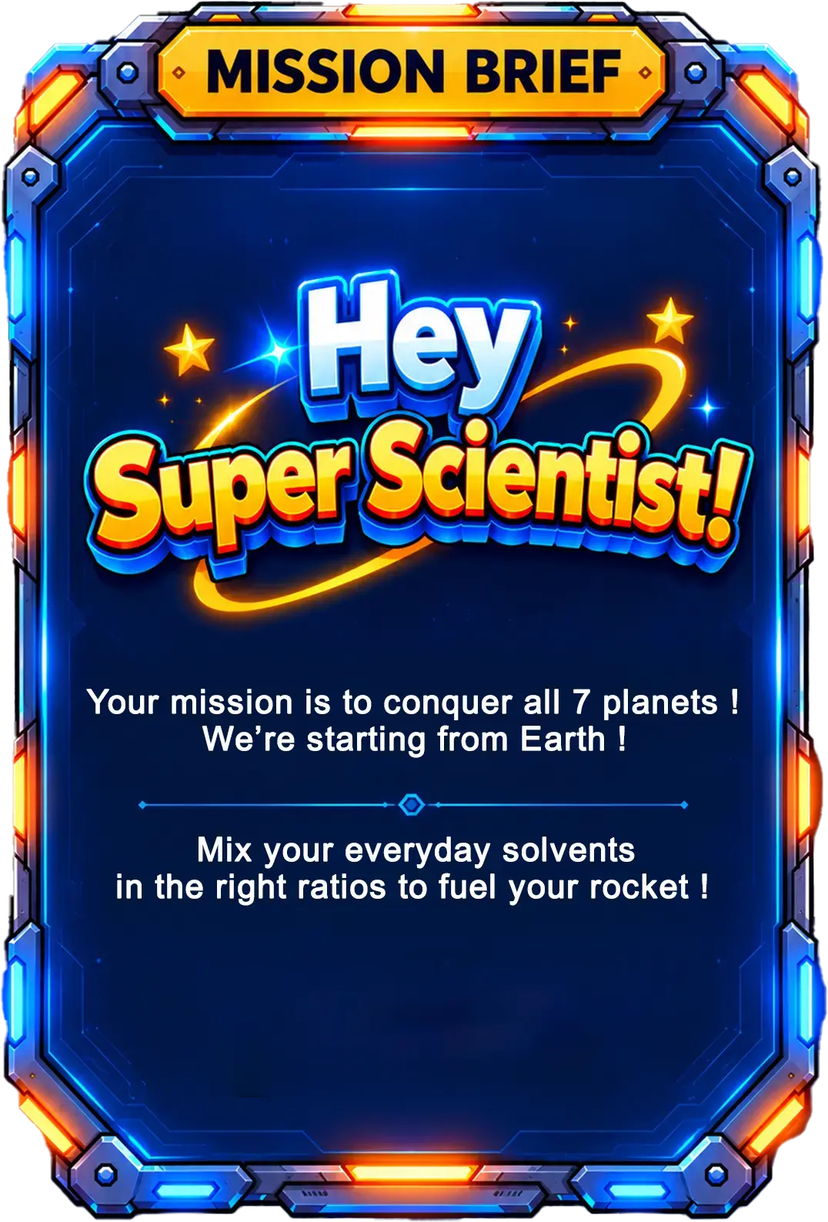
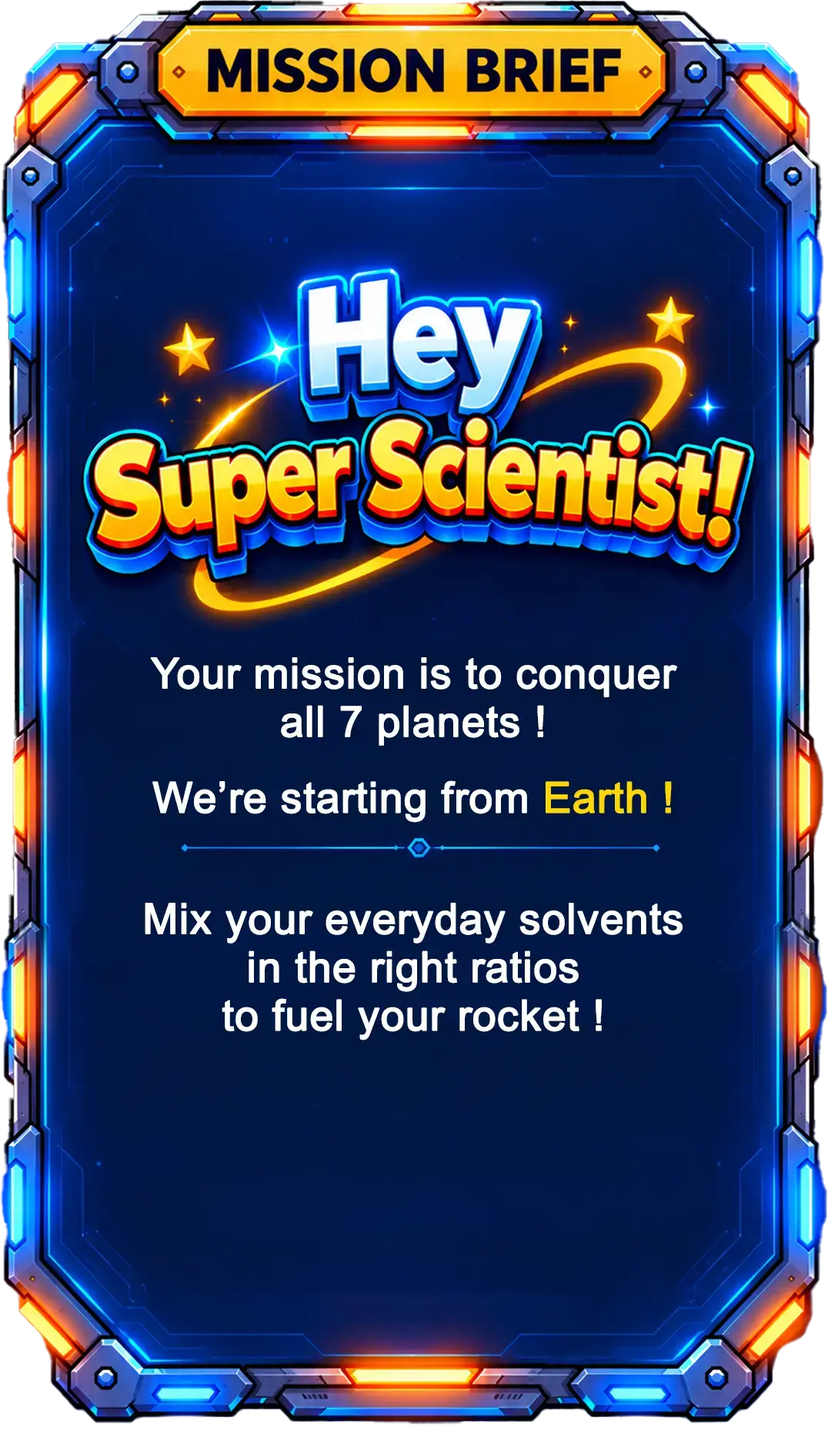
Add responsive three-slide demo and refine mission brief layout

diff --git a/assets/rocket-game-scripts/rocket-game.css b/assets/rocket-game-scripts/rocket-game.css
@@ -553,3 +553,78 @@ img{-webkit-user-drag:none}
 .selecting:not(.boarding) .pick-rocket-art img:nth-child(2){animation:pick-rocket-alternate .4s steps(1,end) infinite}
 @keyframes pick-rocket-point{0%,100%{transform:translateY(-6px) scale(1)}50%{transform:translateY(10px) scale(1.035)}}
 @keyframes pick-rocket-alternate{0%,100%{opacity:0}50%{opacity:1}}
+
+/* Optional full-screen demonstration before mission selection. */
+#brief .demo-button{position:absolute;top:98%;left:25%;width:50%;padding:9px 16px;font-size:clamp(14px,4cqw,22px);animation:breathe 2.5s ease-in-out infinite}
+#demo-popup{position:fixed;inset:0;width:100vw;height:100vh;height:100dvh;max-width:none;max-height:none;margin:0;padding:0;border:0;border-radius:0;background:#020b1c;overflow:hidden;animation:demo-reveal .45s cubic-bezier(.16,1,.3,1) both}
+#demo-popup[open]{display:block}
+#demo-popup::backdrop{background:#000d}
+.demo-media{position:absolute;inset:0;display:grid;place-items:center}
+#demo-gif{width:100%;height:100%;object-fit:contain}
+#demo-placeholder{color:#acf2ff;font-size:clamp(20px,5vw,32px);text-align:center;animation:breathe 2.5s ease-in-out infinite}
+#demo-start-mission{position:absolute;left:50%;bottom:max(24px,env(safe-area-inset-bottom));transform:translateX(-50%);width:min(80%,360px);z-index:2}
+#demo-start-mission:hover{transform:translateX(-50%) translateY(-2px)}
+#demo-start-mission:active{transform:translateX(-50%) scale(.96)}
+.demo-close{position:absolute;right:max(14px,env(safe-area-inset-right));top:max(14px,env(safe-area-inset-top));width:44px;height:44px;border:1px solid #83eaff;border-radius:50%;background:#04152bda;color:white;font-size:28px;z-index:3}
+@keyframes demo-reveal{from{opacity:0;transform:translateY(20px) scale(.97)}to{opacity:1;transform:none}}
+
+/* Fit the new taller mission brief to the visible device height. */
+#brief{height:100vh;height:100svh;min-height:0}
+#brief .brief-frame{top:22px;left:0;right:0;margin-inline:auto;width:min(90%,calc((100vh - 56px)*.569915));width:min(90%,calc((100svh - 56px)*.569915))}
+#brief .wide{top:76%;left:16.667%;width:66.666%}
+#brief .demo-button{top:86%;left:23%;width:54%;height:6.5%;min-height:0;padding:0;font-size:clamp(10px,3cqw,18px);display:flex;align-items:center;justify-content:center}
+@media(min-width:600px){#brief{height:calc(100vh - 40px);height:calc(100svh - 40px)}#brief .brief-frame{width:min(90%,calc((100vh - 96px)*.569915));width:min(90%,calc((100svh - 96px)*.569915))}}
+
+/* Supplied red Demo artwork, fitted without stretching. */
+#brief .demo-button{background:none;border:0;border-radius:0;box-shadow:none}
+#brief .demo-button img{width:100%;height:100%;object-fit:contain}
+
+#demo-start-mission{padding:0;border:0;background:none;box-shadow:none}
+#demo-start-mission img{width:100%;height:auto}
+
+/* Three-slide demo: navigation and mission action remain below the media. */
+#demo-popup .demo-media{top:max(64px,env(safe-area-inset-top));bottom:170px}
+.demo-controls{position:absolute;left:50%;bottom:max(16px,env(safe-area-inset-bottom));width:min(92%,420px);transform:translateX(-50%);display:grid;gap:14px;z-index:2}
+.demo-navigation{display:flex;align-items:center;justify-content:space-between;gap:10px}
+.demo-nav-button{min-height:44px;padding:8px 12px;border:1px solid #63e7ff;border-radius:12px;background:linear-gradient(#103c63,#041c38);color:#edfcff;font-weight:700;font-size:clamp(12px,3.5vw,16px);transition:transform .2s,filter .2s}
+.demo-nav-button:active:not(:disabled){transform:scale(.95)}
+#demo-slide-status{color:#bcf5ff;font-weight:800;font-size:16px;white-space:nowrap;font-variant-numeric:tabular-nums}
+#demo-popup #demo-start-mission{position:relative;left:auto;bottom:auto;transform:none;width:90%;max-width:360px;justify-self:center}
+#demo-popup #demo-start-mission:hover{transform:translateY(-2px)}
+#demo-popup #demo-start-mission:active{transform:scale(.96)}
+
+/* Keep demo media and controls in separate, height-constrained rows. */
+#demo-popup{box-sizing:border-box;padding:max(64px,calc(env(safe-area-inset-top) + 56px)) max(16px,env(safe-area-inset-right)) max(16px,env(safe-area-inset-bottom)) max(16px,env(safe-area-inset-left))}
+#demo-popup[open]{display:grid;grid-template-rows:minmax(0,1fr) auto;gap:12px;justify-items:center}
+#demo-popup .demo-media{position:relative;inset:auto;width:100%;max-width:560px;height:100%;min-height:0;min-width:0;overflow:hidden}
+#demo-popup #demo-gif{position:absolute;inset:0;width:100%;height:100%;min-height:0;object-fit:contain;object-position:center}
+#demo-popup .demo-controls{position:relative;left:auto;bottom:auto;width:min(100%,420px);transform:none;gap:10px;min-width:0}
+#demo-popup .demo-navigation{display:grid;grid-template-columns:1fr auto 1fr;gap:12px;width:100%;align-items:center}
+#demo-popup .demo-nav-button{width:100%;padding:8px;min-width:0}
+#demo-popup #demo-slide-status{text-align:center;min-width:44px}
+#demo-popup #demo-start-mission{width:min(90%,320px)}
+@media(max-height:450px){#demo-popup{padding-top:max(64px,calc(env(safe-area-inset-top) + 56px));gap:8px}#demo-popup .demo-controls{gap:6px}#demo-popup #demo-start-mission{width:210px;max-width:80%}}
+
+/* Compact, centered demo controls with a clear mission action below. */
+#demo-popup{padding:max(8px,env(safe-area-inset-top)) max(8px,env(safe-area-inset-right)) max(10px,env(safe-area-inset-bottom)) max(8px,env(safe-area-inset-left))}
+#demo-popup[open]{gap:8px}
+#demo-popup .demo-media{max-width:none}
+#demo-popup .demo-controls{width:min(100%,340px);grid-template-columns:1fr;justify-items:center;gap:8px}
+#demo-popup .demo-navigation{display:grid;grid-template-columns:1fr 48px 1fr;width:min(100%,280px);gap:8px;padding:4px;border:1px solid #3994bb55;border-radius:24px;background:linear-gradient(180deg,#0c2941,#041426);box-shadow:inset 0 1px 0 #9bdcff12;align-items:center}
+#demo-popup .demo-nav-button{min-height:32px;padding:5px 8px;border:0;border-radius:18px;background:transparent;font-size:12px;box-shadow:none;color:#d5f7ff}
+#demo-popup .demo-nav-button:hover:not(:disabled){background:#3fcaff18}
+#demo-popup #demo-slide-status{min-width:0;font-size:13px;letter-spacing:.1em;color:#79e9ff}
+#demo-popup #demo-start-mission{width:230px;max-width:75%;min-width:0;filter:drop-shadow(0 2px 8px #ffb90020)}
+#demo-popup .demo-close{width:34px;height:34px;font-size:23px;top:max(10px,env(safe-area-inset-top));right:max(10px,env(safe-area-inset-right));background:#04152bdd}
+@media(max-height:450px){#demo-popup .demo-controls{gap:4px}#demo-popup .demo-navigation{padding:2px}#demo-popup #demo-start-mission{width:180px}}
+
+/* Center the fitted brief frame in the available screen on every aspect ratio. */
+#brief{display:grid;place-items:center}
+#brief .brief-frame{position:relative;top:auto;left:auto;right:auto;margin:0}
+
+/* Prominent demo navigation; mission starts from the brief page. */
+#demo-popup .demo-controls{width:min(100%,520px)}
+#demo-popup .demo-navigation{width:100%;grid-template-columns:1fr 48px 1fr;gap:10px;padding:0;border:0;border-radius:0;background:none;box-shadow:none}
+#demo-popup .demo-nav-button{min-height:54px;padding:12px 10px;border:1px solid #65e8ff;border-radius:14px;background:linear-gradient(180deg,#13618a,#073453);font-size:clamp(15px,3.8vw,19px);font-weight:800;box-shadow:inset 0 1px 0 #c8faff45,0 3px 10px #00baff22}
+#demo-popup .demo-nav-button:hover:not(:disabled){background:linear-gradient(180deg,#1b7dad,#0b486c);filter:brightness(1.08)}
+#demo-popup #demo-slide-status{font-size:16px;letter-spacing:.03em}

diff --git a/assets/rocket-game-scripts/rocket-game.html b/assets/rocket-game-scripts/rocket-game.html
@@ -3,9 +3,9 @@
 <head>
   <meta charset="utf-8"><meta name="viewport" content="width=device-width, initial-scale=1, viewport-fit=cover">
   <meta name="theme-color" content="#031336"><title>Rocket'ier &mdash; Aurobindo Games</title>
-  <link rel="stylesheet" href="rocket-game.css?v=90">
-  <script defer src="rocket-game-assets.js?v=2c4dd6497c4be3f1"></script><script defer src="rocket-asset-cache.js?v=1"></script><script defer src="rocket-game-loader.js?v=4"></script>
-  <script defer src="rocket-game-core.js?v=6"></script><script defer src="rocket-game.js?v=77"></script>
+  <link rel="stylesheet" href="rocket-game.css?v=100">
+  <script defer src="rocket-game-assets.js?v=e3c440a7c70c592b"></script><script defer src="rocket-asset-cache.js?v=1"></script><script defer src="rocket-game-loader.js?v=4"></script>
+  <script defer src="rocket-game-core.js?v=6"></script><script defer src="rocket-game.js?v=81"></script>
 </head>
 <body>
   <main id="game" class="game" data-screen="intro">
@@ -19,6 +19,7 @@
       <div class="brief-frame">
       <img class="brief-art" src="../rocket-game-assets/page-2/mission=brief.webp" alt="Mission brief. Mix everyday solvents in the right ratios to fuel your rocket.">
       <button id="start-mission" class="image-button wide"><img src="../rocket-game-assets/page-2/start-mission-button.webp" alt="Start mission"></button>
+      <button id="open-demo" class="image-button demo-button" type="button" aria-label="Demo"><img src="../rocket-game-assets/page-2/demo-button.webp" alt="Demo"></button>
       </div>
     </section>
     <section id="mission" class="screen overlay-screen" hidden aria-labelledby="mission-title">
@@ -48,6 +49,7 @@
     <section id="cinematic" class="screen cinematic" hidden aria-label="Rocket flight"><div class="cinematic-path"><div id="cinematic-rocket" class="pad-rocket"></div></div><div class="flight-rewards" aria-live="polite"><div id="flight-penalty" class="flight-badge penalty" hidden><span id="flight-engines"></span><strong id="flight-speed"></strong></div><div id="flight-bonus" class="flight-badge bonus" hidden><span id="flight-saved"></span><strong id="flight-distance"></strong></div></div></section>
     <section id="journey" class="screen journey" hidden aria-label="Successful launch results"><div id="planet-route" class="planet-route"></div><svg class="journey-path" viewBox="0 0 100 177.778" preserveAspectRatio="none" aria-hidden="true"><path class="route-dots" d="M20 147.556 C12 101 44 64 81 41.778"/><path id="route-covered" pathLength="1" d="M20 147.556 C12 101 44 64 81 41.778"/></svg><div id="journey-rocket" class="flight"><img src="../rocket-game-assets/page-6/rocket.webp" alt="Rocket travelling between planets"></div><div class="journey-content"><p class="eyebrow" id="journey-route"></p><img id="journey-hero" class="journey-hero" src="../rocket-game-assets/page-6/journey-success-1.webp" alt="Journey success!" hidden><progress id="distance-progress" max="100" value="0" aria-label="Mission distance travelled"></progress><dl id="journey-stats" class="glass stats"></dl><button id="continue" class="gold-button">Next question &rarr;</button></div></section>
     <section id="complete" class="screen completion-art" hidden aria-label="Mission complete"><h1 id="complete-title" class="completion-message sr-only"></h1><div class="pace-stat pace-current"><strong id="complete-pace">0.0</strong><span>sec <small>per answer</small></span></div><div id="best-pace-row" class="pace-stat pace-best" hidden><strong id="complete-best-pace">0.0</strong><span>sec <small>per answer</small></span></div><button id="next-mission" class="image-button completion-next" aria-label="Next mission"><img src="../rocket-game-assets/page-8/next-mission-button.webp" alt="Next mission"></button></section>
+    <dialog id="demo-popup" aria-label="Rocketier gameplay demo"><button id="close-demo" class="demo-close" type="button" aria-label="Close demo">&times;</button><div class="demo-media"><img id="demo-gif" alt="Rocketier gameplay demonstration" hidden><p id="demo-placeholder">Demo coming soon</p></div><div class="demo-controls"><nav class="demo-navigation" aria-label="Demo slides"><button id="demo-previous" class="demo-nav-button" type="button">&#8592; Previous</button><output id="demo-slide-status" aria-live="polite">1 / 3</output><button id="demo-next" class="demo-nav-button" type="button">Next &#8594;</button></nav></div></dialog>
     <dialog id="popup"><div class="popup-body"><img id="popup-hero" class="popup-hero" alt="" hidden><img id="popup-art" alt=""><h2 id="popup-title"></h2><p id="popup-text"></p><video id="lesson" controls playsinline webkit-playsinline preload="metadata" hidden></video><button id="popup-action" class="gold-button"></button></div></dialog>
     <p id="announcement" class="sr-only" aria-live="polite"></p>
   </main>

diff --git a/assets/rocket-game-scripts/rocket-game.js b/assets/rocket-game-scripts/rocket-game.js
@@ -723,6 +723,48 @@
     $('mission-distance').textContent = fmt(game.mission.distance);
     $('mission-destination').textContent = game.mission.destination;
   }
+  // The first path is retained from the original single-slide demo.
+  const demoGifs = ['page-2/demo.gif', 'page-2/demo-2.gif', 'page-2/demo-3.gif'];
+  let demoSlide = 0;
+  function renderDemoSlide(direction = 0) {
+    const source = base + demoGifs[demoSlide];
+    const available = window.ROCKET_ASSETS?.some(asset => asset.url === source);
+    $('demo-gif').hidden = !available;
+    $('demo-placeholder').hidden = Boolean(available);
+    $('demo-placeholder').textContent = `Demo ${demoSlide + 1} coming soon`;
+    $('demo-gif').alt = `Rocketier gameplay demonstration, slide ${demoSlide + 1} of ${demoGifs.length}`;
+    if (available) $('demo-gif').src = source;
+    $('demo-slide-status').textContent = `${demoSlide + 1} / ${demoGifs.length}`;
+    $('demo-previous').disabled = demoSlide === 0;
+    $('demo-next').disabled = demoSlide === demoGifs.length - 1;
+    const media = $('demo-gif').parentElement;
+    media.slideAnimation?.cancel();
+    media.slideAnimation = media.animate?.([
+      {opacity:0, transform:`translateX(${direction * 24}px)`},
+      {opacity:1, transform:'translateX(0)'}
+    ], {duration:300, easing:'cubic-bezier(.16,1,.3,1)'});
+  }
+  function moveDemoSlide(direction) {
+    const next = Math.max(0, Math.min(demoGifs.length - 1, demoSlide + direction));
+    if (next === demoSlide) return;
+    demoSlide = next;
+    renderDemoSlide(direction);
+  }
+  $('open-demo').addEventListener('click', () => {
+    demoSlide = 0;
+    renderDemoSlide();
+    $('demo-popup').showModal();
+    $('demo-next').focus();
+  });
+  $('demo-previous').addEventListener('click', () => moveDemoSlide(-1));
+  $('demo-next').addEventListener('click', () => moveDemoSlide(1));
+  $('demo-popup').addEventListener('keydown', event => {
+    if (event.key === 'ArrowLeft' || event.key === 'ArrowRight') {
+      event.preventDefault(); moveDemoSlide(event.key === 'ArrowLeft' ? -1 : 1);
+    }
+  });
+  $('demo-gif').addEventListener('error', () => { $('demo-gif').hidden = true; $('demo-placeholder').hidden = false; });
+  $('close-demo').addEventListener('click', () => $('demo-popup').close());
   $('start-mission').addEventListener('click', missionPopup);
   $('play').addEventListener('click', hangar);
   $('launch').addEventListener('click', () => { if (transferPending) return; stopHold(); game.submit(); processOutcome(); });

diff --git a/assets/rocket-game-scripts/rocket-game-assets.js b/assets/rocket-game-scripts/rocket-game-assets.js
@@ -76,9 +76,29 @@ self.ROCKET_ASSETS = [
     "revision": "3d3ff130861f22da"
   },
   {
+    "url": "../rocket-game-assets/page-2/demo-2.gif",
+    "bytes": 776899,
+    "revision": "5f8b695a9b5da11e"
+  },
+  {
+    "url": "../rocket-game-assets/page-2/demo-3.gif",
+    "bytes": 796535,
+    "revision": "ee06dcc9baa708e3"
+  },
+  {
+    "url": "../rocket-game-assets/page-2/demo-button.webp",
+    "bytes": 4890,
+    "revision": "d4456974c51a7f9d"
+  },
+  {
+    "url": "../rocket-game-assets/page-2/demo.gif",
+    "bytes": 665591,
+    "revision": "02042481256988b2"
+  },
+  {
     "url": "../rocket-game-assets/page-2/mission=brief.webp",
-    "bytes": 138260,
-    "revision": "4b5294327b09ae19"
+    "bytes": 149970,
+    "revision": "83f44fd6e10bc9ce"
   },
   {
     "url": "../rocket-game-assets/page-2/page-2-bg.webp",

diff --git a/assets/rocket-game-scripts/sw.js b/assets/rocket-game-scripts/sw.js
@@ -1,11 +1,11 @@
-importScripts('./rocket-game-assets.js?v=2c4dd6497c4be3f1', './rocket-asset-cache.js?v=1');
+importScripts('./rocket-game-assets.js?v=e3c440a7c70c592b', './rocket-asset-cache.js?v=1');
 
 const SHELL_PREFIX = 'rocketier-shell-';
-const SHELL = `${SHELL_PREFIX}v33`;
+const SHELL = `${SHELL_PREFIX}v44`;
 const SHELL_FILES = [
-  './rocket-game.html', './rocket-game.css?v=90', './rocket-game-core.js?v=6',
-  './rocket-game.js?v=77', './rocket-game-loader.js?v=4',
-  './rocket-game-assets.js?v=2c4dd6497c4be3f1', './rocket-asset-cache.js?v=1'
+  './rocket-game.html', './rocket-game.css?v=100', './rocket-game-core.js?v=6',
+  './rocket-game.js?v=81', './rocket-game-loader.js?v=4',
+  './rocket-game-assets.js?v=e3c440a7c70c592b', './rocket-asset-cache.js?v=1'
 ];
 
 self.addEventListener('install', event => {

diff --git a/assets/rocket-game-scripts/rocket-game-progress.md b/assets/rocket-game-scripts/rocket-game-progress.md
@@ -986,3 +986,60 @@ The user reported excessively stretched tank-tubes and requested larger solvent 
 ## 26 October 2026: selection artwork release checks
 - Included the current user-renamed pick-your-rocket1-black.png and pick-your-rocket2-black.png files and regenerated the asset manifest to replace stale original PNG paths. Included the supplied blinker.gif in the generated asset set.
 - Preserved user-set 0.4s alternation, downward pointing motion and first-pickup-only spotlight. Rocketier syntax checks and all 46 tests pass after manifest refresh. Removed trailing whitespace in the selection markup.
+
+## 26 October 2026: mission brief Demo popup
+- Added Demo below Start Mission, with a full-screen animated dialog, close control and overlaid Start Mission action. Starting from the demo enters the same mission popup as the original button; opening/closing a demo never starts a run.
+- User requested a fixed pending asset path: assets/rocket-game-assets/page-2/demo.gif. Until supplied and included by npm run assets:rocket, display Demo coming soon. GIF errors also use that fallback. No substitute GIF created or unrelated animation used.
+- CSS v91, JS v78, scoped shell v34; rebuilt asset manifest for current on-disk art. All 47 tests passed. Chromium checked Demo placement, full-screen popup and Start Mission navigation; existing Start Mission containment passed phone/tablet/desktop/landscape sizes. Actual GIF playback awaits the supplied media.
+
+## 26 October 2026: taller brief artwork fits screen with both buttons inside
+- Adapted to replaced 1076x1888 mission brief artwork. Raised shared floating frame to 22px and constrained width by both game width and available viewport height, keeping the complete art visible. Brief has a viewport-height layout independent of gameplay minimum scene height.
+- Start Mission is at 76% of art height; Demo at 86%, height 6.5%, inside the frame with spacing. Preserved frame float, Demo pulse, button interactions and navigation. CSS v92, scoped shell v35; regenerated the manifest for the replaced artwork.
+- Chromium geometry checks passed at 320x568, 390x844, 768x1024, 1440x900 and 844x390: complete image stays inside viewport and both buttons stay inside artwork bounds. 390px screenshot inspected.
+
+## 26 October 2026: supplied red Demo button
+- Copied supplied Downloads/demo-button.webp into page-2 and replaced the gold text Demo button with the red image. Kept its internal frame position, pulse, hover/press behavior and full-screen demo action. Image uses contain to preserve proportions.
+- CSS v93, scoped shell v36; regenerated preload manifest (99 assets). Chromium geometry checks passed at phone/tablet/desktop/landscape sizes with both controls inside the brief artwork.
+
+## 26 October 2026: demo Start Mission artwork
+- Replaced the demo/GIF popup text Start Mission control with the supplied existing page-2/start-mission-button.webp image, using its relative production path and existing asset-cache versioning. Preserved bottom-centered placement, hover/press feedback and mission navigation.
+- CSS v94, scoped shell v37. Markup and button action reviewed; no gameplay logic changes.
+
+## 26 October 2026: three-slide GIF demo navigation
+- Converted the demo into three slides with Previous/Next buttons, live 1 / 3 indicator and keyboard Left/Right navigation. Boundary buttons disable on first/last slides; reopening resets to slide one. Slide media enters with a 300ms directional fade/slide.
+- Preserved fixed first path page-2/demo.gif; additional paths are page-2/demo-2.gif and page-2/demo-3.gif. Missing files show slide-specific coming-soon text. Add media and run npm run assets:rocket when supplied.
+- Start Mission image and Close remain available throughout. Footer groups navigation and mission action, reserving media space above so controls are visible in landscape too.
+- CSS v95, JS v79, scoped shell v38. All 48 tests passed. Chromium checked Previous/Next, visible footer at 390x844, 320x568 and 844x390, and Start Mission navigation. Actual GIF playback pending supplied files.
+
+## 26 October 2026: responsive GIF demo alignment
+- Fixed intrinsic GIF overflow by constraining the media to a minmax(0,1fr) grid row, with navigation and Start Mission in a separate automatic-height footer. Full GIF uses contain and cannot extend under controls. Footer centers the counter between equal-width Previous/Next buttons.
+- Preserved full-screen entrance, slide transitions, controls and Start Mission image. Reserved top safe space for Close; compact footer button in short landscape views. Added supplied demo.gif to regenerated preload manifest (100 assets).
+- CSS v96, scoped shell v39. Chromium actual-GIF geometry checks passed at 320x568, 390x844, 768x1024, 1440x900 and 844x390, with media/footer separation, visible controls, Close clearance and working mission navigation.
+
+## 26 October 2026: larger demo GIF, compact controls
+- Reduced demo padding and combined Previous, counter, Next and Start Mission into one compact footer row. Reduced Close size and positioned it in the corner over the viewing area, freeing the previously reserved header space.
+- GIF now uses nearly the full screen height above the footer with contain, preserving complete content and proportions. All controls remain visible and functional; entrance/slide animations preserved.
+- CSS v97, scoped shell v40. Chromium actual-GIF checks passed at 320x568, 390x844, 768x1024, 1440x900 and 844x390 with no media/footer overlap or clipped controls.
+
+## 26 October 2026: refined demo footer layout
+- Replaced the rejected cramped single-line footer with a centered navigation capsule (Previous / counter / Next) and a separate centered Start Mission image beneath. Compact 32px navigation buttons, balanced spacing, subdued cyan styling and a 230px mission action improve hierarchy without returning to oversized controls.
+- Retained minimal viewer padding, complete contained GIF, all navigation behavior and animations. Short landscape uses tighter spacing and a smaller mission button.
+- CSS v98, scoped shell v41. Chromium actual-GIF geometry checks pass at phone/tablet/desktop/landscape sizes; 390px screenshot reviewed.
+
+## 26 October 2026: consistent mission brief centering
+- Replaced the fixed 22px frame anchor with grid centering in the visible brief screen. Kept width/height containment, proportional internal buttons and the approved frame float. Taller screens now distribute spare room above and below instead of leaving it below only.
+- CSS v99, scoped shell v42. Chromium checks passed for reported iPhone SE 375x667, iPhone 16 393x852 and Pixel 9 412x924, plus 320x568, tablet, desktop and landscape. Frame center remains within 10px of screen center while floating; artwork/buttons fully contained.
+
+## 26 October 2026: demo Start Mission unlocks after all slides
+- Demo Start Mission is disabled until all three slides have been visited in the current demo opening. A visited-slide set handles Previous/Next and keyboard navigation; returning to earlier slides keeps it unlocked after completion. Reopening resets the requirement.
+- Added handler guard as well as disabled state; initial focus moves to Next. Original mission-brief Start Mission remains available. GIF completion/dwell time is not measured; this requirement tracks slide visits, including pending-media slides.
+- JS v80, scoped shell v43. All 48 tests pass, including prevention of early start, unlock after slide three and reset on reopen. Existing animations preserved.
+
+## 26 October 2026: demo navigation prominence
+- Removed Start Mission from the demo popup at the user's explicit request, including its obsolete visited-slide gate. Mission starts from the existing brief-page button after closing the viewer.
+- Enlarged Previous/Next to 54px-high blue controls with bold 15-19px labels, cyan borders and clear hover/press feedback. Centered slide count remains between them; full-width footer gives navigation prominence and more viewing height.
+- CSS v100, JS v81, scoped shell v44. All 48 tests pass, including slide navigation, no demo mission action and starting from the brief after closing. Existing demo slide/entrance animations retained.
+
+## 26 October 2026: demo release preparation
+- Regenerated manifest including all three supplied demo GIFs, red Demo button and updated mission brief artwork. Current demo has prominent Previous/Next navigation and no Start Mission action; original brief button starts the game.
+- Release validation: Rocketier syntax checks, all 48 tests and whitespace checks passed. Remote main matched local HEAD before committing.

diff --git a/assets/rocket-game-scripts/rocket-game-details.md b/assets/rocket-game-scripts/rocket-game-details.md
@@ -280,3 +280,25 @@ Pick Your Rocket placement/speed: anchor the sign near the bottom directly above
 Selection sign pointing motion: smoothly dip downward and return, travelling from -6px to +10px over 1.8 seconds. Preserve the independently adjustable artwork-alternation speed (currently user-set 0.4s full cycle).
 
 Selection artwork filenames updated: current supplied frames are page-4/pick-your-rocket1-black.png and pick-your-rocket2-black.png. Regenerate the asset manifest after renaming/replacing files.
+
+Mission brief Demo: show a second Demo button below Start Mission. Open an animated full-screen dialog with the gameplay GIF and an overlaid Start Mission button plus close control. Fixed GIF location: assets/rocket-game-assets/page-2/demo.gif. After adding the file run npm run assets:rocket so it is cached/preloaded. Until then show Demo coming soon; Start Mission remains usable. Starting via Demo follows the original mission-start flow without changing history/timing rules.
+
+Updated taller brief artwork: use viewport-constrained proportional sizing so the full 1076x1888 art is visible, raised near the screen top. Keep both buttons INSIDE the shared floating frame: Start Mission at 76%, Demo at 86% with proportional height. Width must fit both screen width and height, including desktop body margins. This supersedes earlier 15%-top positioning and Demo below/outside the frame.
+
+Demo button artwork: use page-2/demo-button.webp (supplied red button) inside the mission brief. Preserve its proportions, pulse and existing demo popup action.
+
+Demo/GIF popup Start Mission button: use page-2/start-mission-button.webp, matching the mission brief button, with proportional sizing and existing navigation.
+
+Three-slide demo: fixed media paths are assets/rocket-game-assets/page-2/demo.gif, demo-2.gif and demo-3.gif. Show Previous/Next, slide index and existing Start Mission image/Close; disable boundary navigation, support keyboard arrows and reset to slide one when reopened. Animate slide entry, retain placeholder for missing media, and rebuild asset manifest after adding files.
+
+Demo responsive layout: full-screen dialog uses a constrained media row above an independent controls footer. Contain the complete GIF without cropping or allowing intrinsic dimensions to overflow. Previous/Next use equal-width columns around the centered slide indicator. Keep Start Mission below navigation, safe-area spacing for Close/footer, and compact sizing on short landscape screens. Preserve all existing slide and entrance animations.
+
+Demo size refinement: maximize GIF viewing height with minimal safe-area padding. Put Previous, slide counter, Next and the Start Mission image in one compact footer row; use a small corner Close overlay. Keep full GIF proportions/content and all actions inside the viewport. Preserve entry/slide animation.
+
+Demo footer refinement: use a centered compact navigation capsule with Previous, counter and Next, then the Start Mission image centered below. This supersedes the cramped single-row footer. Keep viewer padding small, full GIF visible, and compact landscape spacing.
+
+Mission brief centering correction: center the proportional floating frame vertically and horizontally within the visible brief screen using grid layout, rather than anchoring at 22px from the top. Retain width/height fit constraints and both internal buttons. This supersedes the earlier raised fixed-top placement.
+
+Demo start gate: disable the demo popup Start Mission button until all three slides have been visited during that opening. Once unlocked it stays enabled while navigating back. Closing/reopening resets visits. Track slide visits, not GIF playback duration. The separate mission-brief Start Mission action is unchanged.
+
+Demo controls revision: remove the demo popup Start Mission button and its slide-visit unlock gate. Keep mission start on the brief page. Make Previous and Next large prominent controls with a centered counter; preserve Close, slide transitions and responsive contained GIF. This supersedes earlier requirements for a Start Mission action inside the demo.
